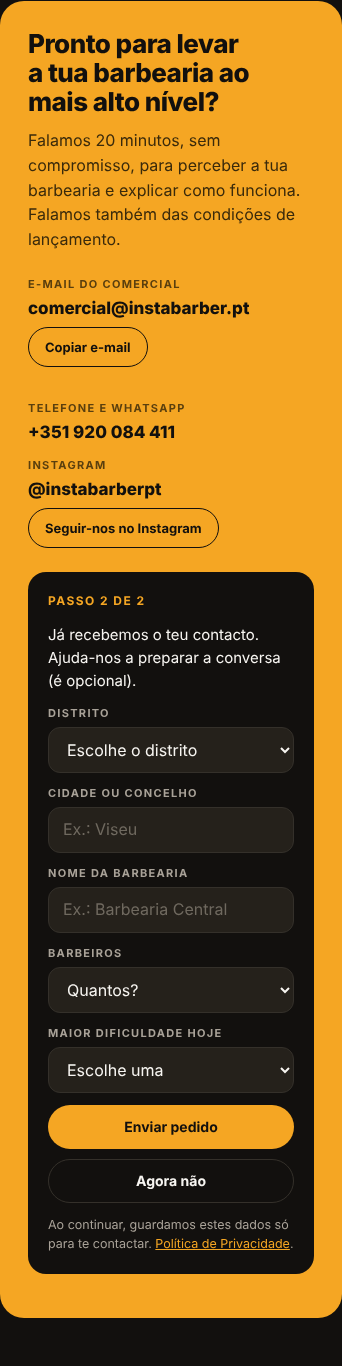
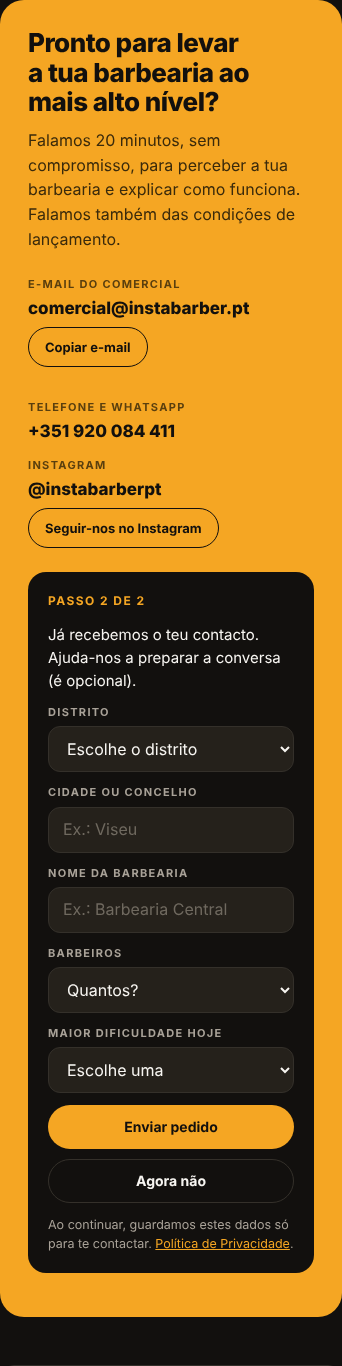
Landing: Clube só com cartão fixo, exemplo 35 € até 4 cortes (D-90)
Claude-Session: https://claude.ai/code/session_01NzqEVh27JN9VYLXgeANEsa

diff --git a/landing/index.html b/landing/index.html
@@ -204,6 +204,7 @@ details .ans a { color: var(--gold); }
 .sim-eq b { font-size: clamp(40px, 6vw, 56px); line-height: 1; color: var(--green); font-variant-numeric: tabular-nums; }
 .sim-eq span { color: var(--cream); font-weight: 700; }
 .sim-sub { margin: 0; color: var(--mute); font-size: 15px; }
+.sim-note { margin: 4px 0 0; padding-top: 10px; border-top: 1px solid var(--line); color: var(--mute); font-size: 13px; }
 .sim-hi { background: var(--gold); color: var(--ink); padding: clamp(20px, 3vw, 32px); display: grid; gap: 8px; align-content: center; }
 .sim-hi .k { color: var(--ink); opacity: .75; }
 .sim-hi h3 { font-size: clamp(20px, 2.6vw, 24px); }
@@ -376,7 +377,6 @@ footer .links a:hover { color: var(--gold); }
   .pt { grid-template-columns: minmax(0, 1fr); }
   .row2, .calc-body { grid-template-columns: minmax(0, 1fr); }
   .slotx { grid-template-columns: 52px minmax(0, 1fr); }
-  #receitabox { grid-template-columns: minmax(0, 1fr) !important; }
   .prow { grid-template-columns: minmax(0, 1fr) auto; }
   .prow > :last-child { grid-column: 1 / -1; justify-self: start; }
   .slotx > :last-child { grid-column: 1 / -1; justify-self: start; }
@@ -440,7 +440,7 @@ footer .links a:hover { color: var(--gold); }
           <small>Encomendas na página, pagas ao balcão</small>
         </div>
         <div class="pub-two">
-          <div class="pub-card"><b>Clube</b><small>Plano Cabelo, 25 €/mês</small></div>
+          <div class="pub-card"><b>Clube</b><small>Plano Cabelo, 35 €/mês</small></div>
           <div class="pub-card"><b>Selos</b><div class="pub-dots"><i class="on"></i><i class="on"></i><i class="on"></i><i class="on"></i><i class="on"></i><i class="on"></i><i class="on"></i><i></i><i></i><i></i></div></div>
         </div>
         <div class="pub-foot">Cartões oferta · Livro de Reclamações</div>
@@ -571,7 +571,7 @@ footer .links a:hover { color: var(--gold); }
     <div class="feats f4">
       <div class="feat"><span class="k">Receita</span><h3>Dinheiro certo todos os meses</h3><p>Cada subscritor é uma mensalidade garantida. Fazes as contas do mês antes de abrires a porta.</p></div>
       <div class="feat"><span class="k">Fidelidade</span><h3>Clientes que voltam</h3><p>Quem já pagou o mês tem um bom motivo para vir cortar contigo, e não à porta do lado.</p></div>
-      <div class="feat"><span class="k">Controlo</span><h3>O plano é teu</h3><p>Defines o nome, o preço e os serviços incluídos. Por exemplo, 2 cortes por 25 € ao mês.</p></div>
+      <div class="feat"><span class="k">Controlo</span><h3>O plano é teu</h3><p>Defines o nome, o preço e os serviços incluídos. Por exemplo, até 4 cortes por 35 € ao mês.</p></div>
       <div class="feat"><span class="k">Sem trabalho</span><h3>O sistema faz as contas</h3><p>Controla o ciclo, os cortes que restam a cada cliente e quem está por pagar. O pagamento regista-se ao balcão: o sistema não cobra.</p></div>
     </div>
   </section>
@@ -580,8 +580,9 @@ footer .links a:hover { color: var(--gold); }
     <div class="box sim">
       <div class="sim-main">
         <span class="k">Clube de assinatura · a conta</span>
-        <div class="sim-eq"><span>10 clientes</span> × <span>25 € por mês</span> = <b>250 €</b></div>
-        <p class="sim-sub">por mês, no teu bolso antes de os clientes se sentarem na cadeira. Cada um tem 2 cortes incluídos e o pagamento regista-se ao balcão: o sistema não cobra nada a ninguém.</p>
+        <div class="sim-eq"><span>10 clientes</span> × <span>35 € por mês</span> = <b>350 €</b></div>
+        <p class="sim-sub">por mês, no teu bolso antes de os clientes se sentarem na cadeira. Cada um tem até 4 cortes incluídos e o pagamento regista-se ao balcão: o sistema não cobra nada a ninguém.</p>
+        <p class="sim-note">Exemplo ilustrativo: o plano é totalmente personalizável. Tu defines o nome, o preço, o número de cortes e os serviços incluídos.</p>
       </div>
       <div class="sim-hi">
         <span class="k">A vantagem</span>
@@ -589,20 +590,7 @@ footer .links a:hover { color: var(--gold); }
         <p>Os subscritores marcam nos dias e nas horas de menos movimento. É uma cadeira que ficava vazia a render, com o dinheiro do mês já garantido.</p>
       </div>
     </div>
-    <div class="row2" id="receitabox" style="grid-template-columns: repeat(2, minmax(0, 1fr))">
-      <div class="box" id="clube">
-        <div class="box-head"><b>Clube de assinatura</b></div>
-        <p class="hintx">«Plano Cabelo»: 25 € por mês, com 2 cortes incluídos (preço de tabela 12 €).</p>
-        <div class="calc"><div class="fields" style="grid-column: 1 / -1"><label for="cl-n">Quantos clientes subscrevem?<input id="cl-n" type="number" inputmode="numeric" min="0" max="500" value="10"></label></div></div>
-        <div class="stat"><span class="k">Receita previsível</span><b id="cl-rec">250 €</b><span>por mês, antes de o cliente entrar na cadeira</span></div>
-        <div class="lost">
-          <div class="lost-top"><b>Marco R.</b><strong id="cl-est" class="prize"></strong></div>
-          <small id="cl-cred"></small>
-          <div><button class="mini" id="cl-pago" type="button">Marcar ciclo como pago</button> <button class="mini" id="cl-usar" type="button" disabled>Usar crédito do clube</button></div>
-          <div class="msgx" id="cl-msg" hidden></div>
-        </div>
-        <p class="hintx">O crédito só vale depois de marcares «Pago». Sem crédito, o serviço é cobrado normalmente.</p>
-      </div>
+    <div class="row2" id="receitabox" style="grid-template-columns: minmax(0, 1fr); max-width: 560px">
       <div class="box" id="cartao">
         <div class="box-head"><b>Cartão oferta</b></div>
         <p class="hintx">Vende ao balcão, o cliente leva para oferecer. O sistema gera o código e o cartão com a tua marca.</p>
@@ -1151,25 +1139,6 @@ footer .links a:hover { color: var(--gold); }
     pintarLoja();
   });
   pintarLoja();
-
-  /* clube de assinatura */
-  var clube = { pago: false, cred: 2 };
-  function pintarClube() {
-    var n = Math.min(500, Math.max(0, Math.round(parseFloat($("cl-n").value) || 0)));
-    $("cl-rec").textContent = eur(n * 25);
-    $("cl-est").textContent = clube.pago ? "Ciclo pago" : "Ciclo por pagar";
-    $("cl-cred").textContent = clube.pago ? clube.cred + " de 2 cortes por usar neste ciclo" : "Os 2 cortes só valem depois de marcares o pagamento.";
-    $("cl-pago").disabled = clube.pago; $("cl-usar").disabled = !clube.pago;
-  }
-  $("cl-n").addEventListener("input", pintarClube);
-  $("cl-pago").addEventListener("click", function () { clube.pago = true; $("cl-msg").hidden = true; pintarClube(); });
-  $("cl-usar").addEventListener("click", function () {
-    var m = $("cl-msg"); m.hidden = false;
-    if (clube.cred > 0) { clube.cred -= 1; m.textContent = "Corte concluído: cobrado 0,00 € (valor de tabela 12,00 €, crédito descontado)."; }
-    else { m.textContent = "Sem crédito neste ciclo: o corte é cobrado normalmente, 12,00 €."; }
-    pintarClube();
-  });
-  pintarClube();
 
   /* cartão oferta */
   var gc = { saldo: 0, ativo: false };

diff --git a/landing/publicar/index.html b/landing/publicar/index.html
@@ -220,6 +220,7 @@ details .ans a { color: var(--gold); }
 .sim-eq b { font-size: clamp(40px, 6vw, 56px); line-height: 1; color: var(--green); font-variant-numeric: tabular-nums; }
 .sim-eq span { color: var(--cream); font-weight: 700; }
 .sim-sub { margin: 0; color: var(--mute); font-size: 15px; }
+.sim-note { margin: 4px 0 0; padding-top: 10px; border-top: 1px solid var(--line); color: var(--mute); font-size: 13px; }
 .sim-hi { background: var(--gold); color: var(--ink); padding: clamp(20px, 3vw, 32px); display: grid; gap: 8px; align-content: center; }
 .sim-hi .k { color: var(--ink); opacity: .75; }
 .sim-hi h3 { font-size: clamp(20px, 2.6vw, 24px); }
@@ -392,7 +393,6 @@ footer .links a:hover { color: var(--gold); }
   .pt { grid-template-columns: minmax(0, 1fr); }
   .row2, .calc-body { grid-template-columns: minmax(0, 1fr); }
   .slotx { grid-template-columns: 52px minmax(0, 1fr); }
-  #receitabox { grid-template-columns: minmax(0, 1fr) !important; }
   .prow { grid-template-columns: minmax(0, 1fr) auto; }
   .prow > :last-child { grid-column: 1 / -1; justify-self: start; }
   .slotx > :last-child { grid-column: 1 / -1; justify-self: start; }
@@ -459,7 +459,7 @@ footer .links a:hover { color: var(--gold); }
           <small>Encomendas na página, pagas ao balcão</small>
         </div>
         <div class="pub-two">
-          <div class="pub-card"><b>Clube</b><small>Plano Cabelo, 25 €/mês</small></div>
+          <div class="pub-card"><b>Clube</b><small>Plano Cabelo, 35 €/mês</small></div>
           <div class="pub-card"><b>Selos</b><div class="pub-dots"><i class="on"></i><i class="on"></i><i class="on"></i><i class="on"></i><i class="on"></i><i class="on"></i><i class="on"></i><i></i><i></i><i></i></div></div>
         </div>
         <div class="pub-foot">Cartões oferta · Livro de Reclamações</div>
@@ -590,7 +590,7 @@ footer .links a:hover { color: var(--gold); }
     <div class="feats f4">
       <div class="feat"><span class="k">Receita</span><h3>Dinheiro certo todos os meses</h3><p>Cada subscritor é uma mensalidade garantida. Fazes as contas do mês antes de abrires a porta.</p></div>
       <div class="feat"><span class="k">Fidelidade</span><h3>Clientes que voltam</h3><p>Quem já pagou o mês tem um bom motivo para vir cortar contigo, e não à porta do lado.</p></div>
-      <div class="feat"><span class="k">Controlo</span><h3>O plano é teu</h3><p>Defines o nome, o preço e os serviços incluídos. Por exemplo, 2 cortes por 25 € ao mês.</p></div>
+      <div class="feat"><span class="k">Controlo</span><h3>O plano é teu</h3><p>Defines o nome, o preço e os serviços incluídos. Por exemplo, até 4 cortes por 35 € ao mês.</p></div>
       <div class="feat"><span class="k">Sem trabalho</span><h3>O sistema faz as contas</h3><p>Controla o ciclo, os cortes que restam a cada cliente e quem está por pagar. O pagamento regista-se ao balcão: o sistema não cobra.</p></div>
     </div>
   </section>
@@ -599,8 +599,9 @@ footer .links a:hover { color: var(--gold); }
     <div class="box sim">
       <div class="sim-main">
         <span class="k">Clube de assinatura · a conta</span>
-        <div class="sim-eq"><span>10 clientes</span> × <span>25 € por mês</span> = <b>250 €</b></div>
-        <p class="sim-sub">por mês, no teu bolso antes de os clientes se sentarem na cadeira. Cada um tem 2 cortes incluídos e o pagamento regista-se ao balcão: o sistema não cobra nada a ninguém.</p>
+        <div class="sim-eq"><span>10 clientes</span> × <span>35 € por mês</span> = <b>350 €</b></div>
+        <p class="sim-sub">por mês, no teu bolso antes de os clientes se sentarem na cadeira. Cada um tem até 4 cortes incluídos e o pagamento regista-se ao balcão: o sistema não cobra nada a ninguém.</p>
+        <p class="sim-note">Exemplo ilustrativo: o plano é totalmente personalizável. Tu defines o nome, o preço, o número de cortes e os serviços incluídos.</p>
       </div>
       <div class="sim-hi">
         <span class="k">A vantagem</span>
@@ -608,20 +609,7 @@ footer .links a:hover { color: var(--gold); }
         <p>Os subscritores marcam nos dias e nas horas de menos movimento. É uma cadeira que ficava vazia a render, com o dinheiro do mês já garantido.</p>
       </div>
     </div>
-    <div class="row2" id="receitabox" style="grid-template-columns: repeat(2, minmax(0, 1fr))">
-      <div class="box" id="clube">
-        <div class="box-head"><b>Clube de assinatura</b></div>
-        <p class="hintx">«Plano Cabelo»: 25 € por mês, com 2 cortes incluídos (preço de tabela 12 €).</p>
-        <div class="calc"><div class="fields" style="grid-column: 1 / -1"><label for="cl-n">Quantos clientes subscrevem?<input id="cl-n" type="number" inputmode="numeric" min="0" max="500" value="10"></label></div></div>
-        <div class="stat"><span class="k">Receita previsível</span><b id="cl-rec">250 €</b><span>por mês, antes de o cliente entrar na cadeira</span></div>
-        <div class="lost">
-          <div class="lost-top"><b>Marco R.</b><strong id="cl-est" class="prize"></strong></div>
-          <small id="cl-cred"></small>
-          <div><button class="mini" id="cl-pago" type="button">Marcar ciclo como pago</button> <button class="mini" id="cl-usar" type="button" disabled>Usar crédito do clube</button></div>
-          <div class="msgx" id="cl-msg" hidden></div>
-        </div>
-        <p class="hintx">O crédito só vale depois de marcares «Pago». Sem crédito, o serviço é cobrado normalmente.</p>
-      </div>
+    <div class="row2" id="receitabox" style="grid-template-columns: minmax(0, 1fr); max-width: 560px">
       <div class="box" id="cartao">
         <div class="box-head"><b>Cartão oferta</b></div>
         <p class="hintx">Vende ao balcão, o cliente leva para oferecer. O sistema gera o código e o cartão com a tua marca.</p>
@@ -1170,25 +1158,6 @@ footer .links a:hover { color: var(--gold); }
     pintarLoja();
   });
   pintarLoja();
-
-  /* clube de assinatura */
-  var clube = { pago: false, cred: 2 };
-  function pintarClube() {
-    var n = Math.min(500, Math.max(0, Math.round(parseFloat($("cl-n").value) || 0)));
-    $("cl-rec").textContent = eur(n * 25);
-    $("cl-est").textContent = clube.pago ? "Ciclo pago" : "Ciclo por pagar";
-    $("cl-cred").textContent = clube.pago ? clube.cred + " de 2 cortes por usar neste ciclo" : "Os 2 cortes só valem depois de marcares o pagamento.";
-    $("cl-pago").disabled = clube.pago; $("cl-usar").disabled = !clube.pago;
-  }
-  $("cl-n").addEventListener("input", pintarClube);
-  $("cl-pago").addEventListener("click", function () { clube.pago = true; $("cl-msg").hidden = true; pintarClube(); });
-  $("cl-usar").addEventListener("click", function () {
-    var m = $("cl-msg"); m.hidden = false;
-    if (clube.cred > 0) { clube.cred -= 1; m.textContent = "Corte concluído: cobrado 0,00 € (valor de tabela 12,00 €, crédito descontado)."; }
-    else { m.textContent = "Sem crédito neste ciclo: o corte é cobrado normalmente, 12,00 €."; }
-    pintarClube();
-  });
-  pintarClube();
 
   /* cartão oferta */
   var gc = { saldo: 0, ativo: false };

diff --git a/DECISOES.md b/DECISOES.md
@@ -415,3 +415,8 @@ O módulo da calculadora passa a ter fundo claro, barra de aplicação no topo (
 - A calculadora passa de clara a cinza médio (mais claro que os módulos escuros, sem destoar).
 - Rótulos: «Deixa de perder clientes para a concorrência» (calculadora) e «O que vais ter no sistema».
 - O cabeçalho do bloco «Experimenta · plano Pro» foi substituído por um cartão fixo com a conta de 10 clientes × 25 € = 250 € por mês e a vantagem «Enche os teus dias mais fracos». As caixas interativas do Clube e do Cartão oferta mantêm-se por baixo.
+
+## D-90 · 22/10/2026 · Clube: só o cartão fixo, exemplo de 35 €
+- Removida a caixa interativa do Clube (e o seu JavaScript). Fica o cartão fixo: 10 clientes × 35 € = 350 € por mês, com até 4 cortes incluídos.
+- O cartão diz que é um exemplo ilustrativo e que o plano é totalmente personalizável (nome, preço, cortes, serviços). O exemplo do Plano Cabelo passou de 25 € para 35 € em todos os sítios da landing.
+- O Cartão oferta interativo mantém-se por baixo, numa só coluna.
